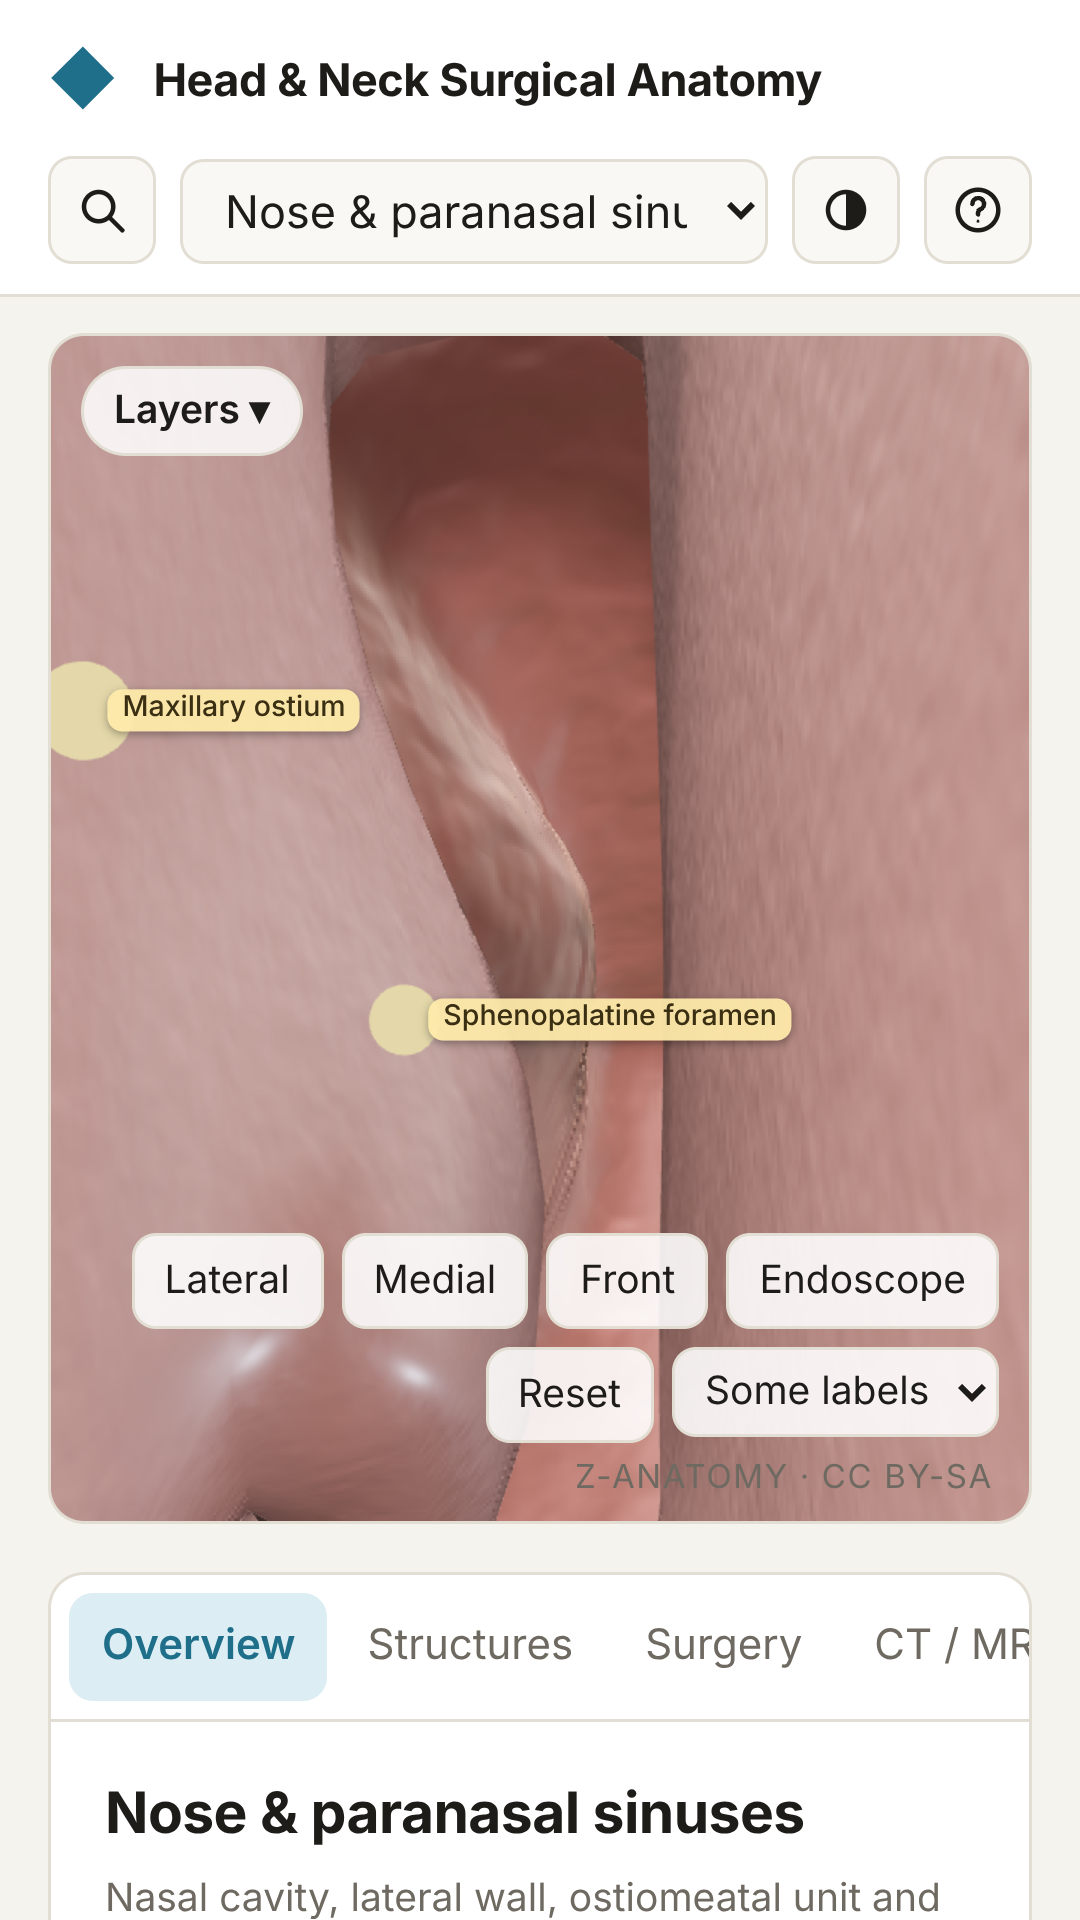
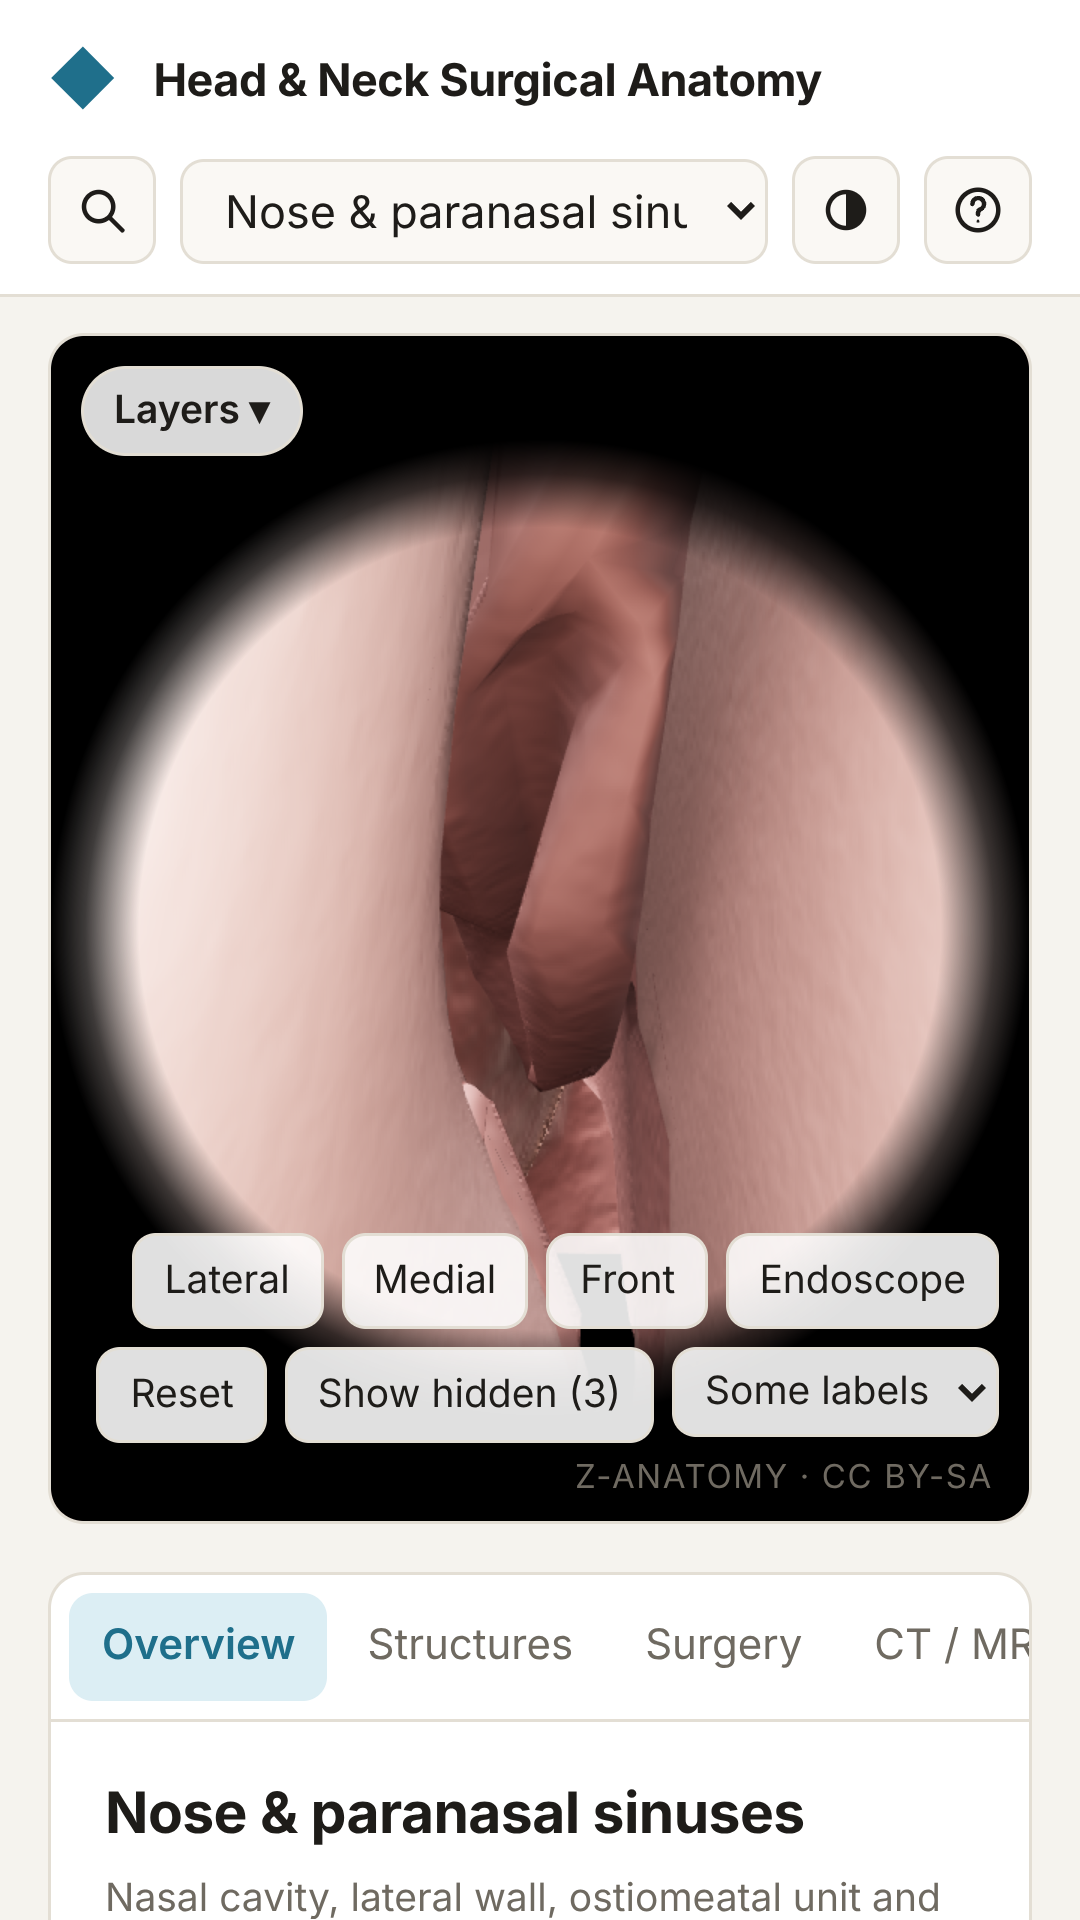
Endoscope view: scope light, round field, turbinates and a better position
- Scope views now look like scope images: the light at the eye fades with
  distance (room lights drop to a glow), the field is round and vignetted,
  gaps show as dark airway, and a view can set its own field of view and
  light strength.
- Endoscope: the scope sits inside the right nasal cavity, wide-angle,
  looking back towards the choana; the turbinates and palate (bone in the
  model) are shown in the lining's colour; pins and outer bones set aside.
- Laryngoscope gets a stronger light for its distance; gentler mucosa relief.
- New endoscope screenshots for the Play listing.

Claude-Session: https://claude.ai/code/session_01FXyQX1CsvbVduY2FAc3rGA

diff --git a/js/viewer.js b/js/viewer.js
@@ -152,7 +152,7 @@
   const SURFACE = {
     muscle: { strength: 0.012, height: "fibers(p)" },
     gland: { strength: 0.03, height: "lobules(p)" },
-    mucosa: { strength: 0.004, height: "vnoise(p * 22.0) * 0.75 + vnoise(p * 48.0) * 0.25" },
+    mucosa: { strength: 0.0025, height: "vnoise(p * 22.0) * 0.75 + vnoise(p * 48.0) * 0.25" },
     bone: { strength: 0.01, height: "vnoise(p * 7.0) * 0.6 + vnoise(p * 19.0) * 0.4" },
     node: { strength: 0.01, height: "vnoise(p * 9.0)" },
     skin: { strength: 0.0022, height: "vnoise(p * 45.0) * 0.6 + vnoise(p * 95.0) * 0.25 + vnoise(p * 12.0) * 0.15" }
@@ -291,13 +291,20 @@
       this.scene.environment = pmrem.fromScene(studio(), 0.04).texture;
       container.appendChild(this.renderer.domElement);
 
+      // The round field of a scope, shown in surgeon's-eye views.
+      this.scopeMask = document.createElement("div");
+      this.scopeMask.className = "scope-mask";
+      this.scopeMask.hidden = true;
+      container.appendChild(this.scopeMask);
+
       this.labelLayer = document.createElement("div");
       this.labelLayer.className = "labels";
       container.appendChild(this.labelLayer);
 
       // Three.js r155+ uses physical light units; older builds need ~1/π the intensity.
       const L = Number(THREE.REVISION) >= 155 ? 1 : 1 / Math.PI;
-      this.scene.add(new THREE.HemisphereLight(0xffffff, 0x6b5a50, 0.35 * L));
+      this.hemi = new THREE.HemisphereLight(0xffffff, 0x6b5a50, 0.35 * L);
+      this.scene.add(this.hemi);
       // The key light follows the camera (above and to the left of the eye),
       // so its shadows always fall where they can be seen. See render().
       const key = new THREE.DirectionalLight(0xfff4e8, 1.5 * L);
@@ -313,10 +320,14 @@
       const fill = new THREE.DirectionalLight(0xe8eeff, 0.4 * L);
       fill.position.set(8, -4, -6);
       this.scene.add(fill);
-      // A light at the eye for endoscope, otoscope and laryngoscope views. See setHeadlight().
-      this.headlight = new THREE.PointLight(0xfff6ea, 0, 0, 0);
-      this.headlightPower = 1.0 * L;
+      this.fill = fill;
+      // A light at the eye for endoscope, otoscope and laryngoscope views,
+      // fading with distance as a scope's light does. See setHeadlight().
+      this.headlight = new THREE.PointLight(0xfff6ea, 0, 0, 2);
+      this.lightScale = L;
+      this.headlightPower = 4 * L;
       this.scene.add(this.headlight);
+      this.roomLights = [this.hemi, key, fill].map((l) => [l, l.intensity]);
 
       this.target = new THREE.Vector3();
       this.spherical = { radius: 24, theta: 1.0, phi: 1.75 };
@@ -373,6 +384,8 @@
       this.setHeadlight(false);
       this.opacityOverride = new Map();
       this.scopeSaved = null;
+      this.camera.fov = 35;
+      this.camera.updateProjectionMatrix();
       this.setPins(this.landmarks, []);
       for (const s of this.structures.values()) {
         this.scene.remove(s.root);
@@ -537,8 +550,12 @@
     enterScope(spec) {
       if (!this.scopeSaved) this.scopeSaved = { ...this.layerVisible };
       this.setView(...spec.at);
+      this.camera.fov = spec.fov || 35; // scopes see wider than the eye
+      this.camera.updateProjectionMatrix();
+      this.headlightPower = (spec.light || 4) * this.lightScale; // brighter for a scope held further back
       if (spec.layers) for (const k of Object.keys(this.layerVisible)) this.layerVisible[k] = spec.layers.includes(k);
       this.opacityOverride = new Map(Object.entries(spec.opacity || {}));
+      this.setTints(spec.tint || {});
       for (const id of spec.hide || []) this.hidden.add(id);
       this.onHiddenChange && this.onHiddenChange(this.hidden.size);
       this.setHeadlight(true);
@@ -549,15 +566,35 @@
       if (!this.scopeSaved) return;
       Object.assign(this.layerVisible, this.scopeSaved);
       this.scopeSaved = null;
+      this.camera.fov = 35;
+      this.camera.updateProjectionMatrix();
       this.opacityOverride = new Map();
+      this.setTints({});
       this.hidden.clear();
       this.onHiddenChange && this.onHiddenChange(0);
       this.setHeadlight(false);
       this.refresh();
     }
 
+    // Recolour structures while a view needs it (e.g. turbinate bone seen
+    // through its lining); {} gives every structure its own colour back.
+    setTints(map) {
+      for (const [id, s] of this.structures) {
+        s.root.traverse((o) => {
+          if (!o.isMesh) return;
+          if (o.userData.baseColor === undefined) o.userData.baseColor = o.material.color.getHex();
+          o.material.color.setHex(map[id] ?? o.userData.baseColor);
+        });
+      }
+    }
+
+    // Scope light on: the room lights drop to a glow and the field turns round.
     setHeadlight(on) {
       this.headlight.intensity = on ? this.headlightPower : 0;
+      for (const [light, base] of this.roomLights) light.intensity = on ? base * 0.12 : base;
+      this.scopeMask.hidden = !on;
+      this.renderer.setClearColor(0x000000, on ? 1 : 0); // gaps read as dark airway, not the page
+
       this.dirty = true;
     }
 

diff --git a/js/models/sinonasal-model.js b/js/models/sinonasal-model.js
@@ -21,12 +21,17 @@ window.ANATOMY.models.sinonasal = {
     lateral: [-Math.PI / 2, Math.PI / 2],
     inferior: [Math.PI / 2, Math.PI / 2],
     anterior: [0, Math.PI / 2],
-    // A 0° endoscope in the right nostril, looking back along the floor of the
-    // nose: inferior and middle turbinates on the lateral wall, septum medially.
+    // A 0° endoscope just inside the right nasal cavity, looking back towards
+    // the choana: inferior turbinate below on the lateral wall, the middle
+    // turbinate above it, the septum medially.
     special: {
-      at: [0.02, 1.768, 5.1, [0.75, -0.6, -1.5]],
-      layers: ["mucosa", "foramina"],
-      opacity: { nasal_mucosa: 1, nasopharynx: 1 }
+      at: [0.006, 1.628, 4.69, [0.62, 0.1, -2.5]],
+      fov: 75,
+      layers: ["mucosa", "bone"],
+      hide: ["frontal", "sphenoid", "nasal_bones"],
+      opacity: { nasal_mucosa: 1, nasopharynx: 1, ethmoid: 1, inferior_concha: 1, maxilla: 1, palatine: 1, vomer: 1 },
+      // The turbinates and the floor (palate) are bone in the model: give them their lining's colour.
+      tint: { inferior_concha: 0xd99490, ethmoid: 0xd99490, maxilla: 0xd99490, palatine: 0xd99490, vomer: 0xd99490 }
     }
   },
   viewLabels: { inferior: "Medial", anterior: "Front", special: "Endoscope" },

diff --git a/styles.css b/styles.css
@@ -121,6 +121,12 @@ button, select { font: inherit; color: inherit; }
   height: calc(100vh - 140px);
 }
 .viewer { position: absolute; inset: 0; }
+/* Surgeon's-eye views: the round, vignetted field of a scope. */
+.scope-mask {
+  position: absolute; inset: 0; pointer-events: none;
+  background: radial-gradient(circle closest-side at 50% 50%, transparent 82%, rgba(0, 0, 0, 0.75) 93%, #000 100%);
+}
+.scope-mask[hidden] { display: none; }
 .viewer canvas { display: block; width: 100%; height: 100%; }
 .viewer-loading {
   position: absolute; inset: 0; margin: 0;

diff --git a/js/models/larynx-model.js b/js/models/larynx-model.js
@@ -22,6 +22,7 @@ window.ANATOMY.models.larynx = {
     // arytenoids below, vestibular folds lateral to the vocal folds.
     special: {
       at: [Math.PI, 0.5, 6, [0, -0.3, 0.2]],
+      light: 40,
       layers: ["bone", "membrane", "muscle", "context"],
       hide: ["hyoid", "thyroid_cartilage", "thyrohyoid_membrane", "cricoid", "trachea", "thyroid", "vertebrae", "cricothyroid_membrane",
         "pca", "lca", "thyroarytenoid", "cricothyroid", "thyrohyoid", "interarytenoid", "constrictors"],
